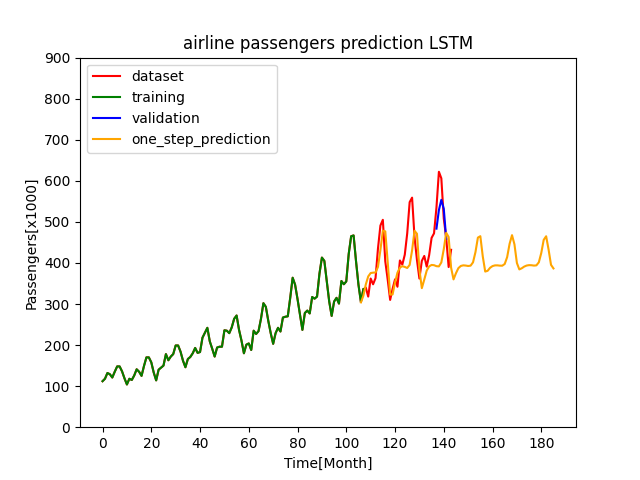
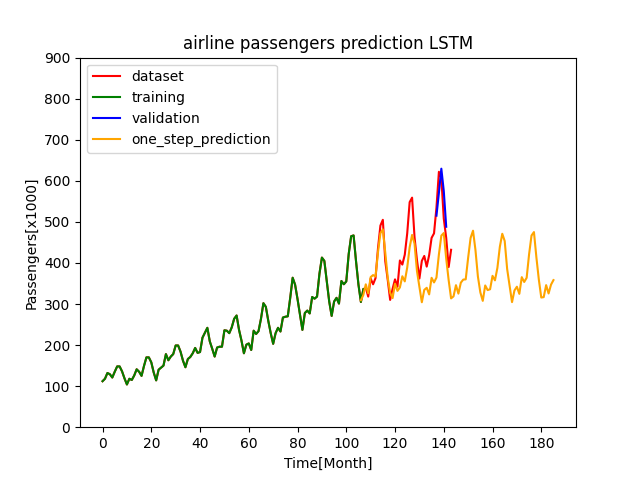
set learning rate to 0.001 for airline passengers pytorch lstm

Changed region(s): [[0.5625, 0.3438, 0.875, 0.625], [0.8438, 0.5938, 0.875, 0.625]]

diff --git a/TimeSeriesPrediction/UnivariatTimeSeriesForecast/AirlinePassengers/Pytorch/LSTM/airline_passengers_pytorch_lstm.py b/TimeSeriesPrediction/UnivariatTimeSeriesForecast/AirlinePassengers/Pytorch/LSTM/airline_passengers_pytorch_lstm.py
@@ -6,7 +6,7 @@ from sklearn.preprocessing import MinMaxScaler
 from TimeSeriesPrediction.UnivariatTimeSeriesForecast.AirlinePassengers.airline_passengers_utilities import *
 
 EPOCHS = 1000
-LEARNING_RATE = 0.0001
+LEARNING_RATE = 0.001
 BATCH_SIZE = 1
 LOOK_BACK = 30
 PREDICTION_START = -1
